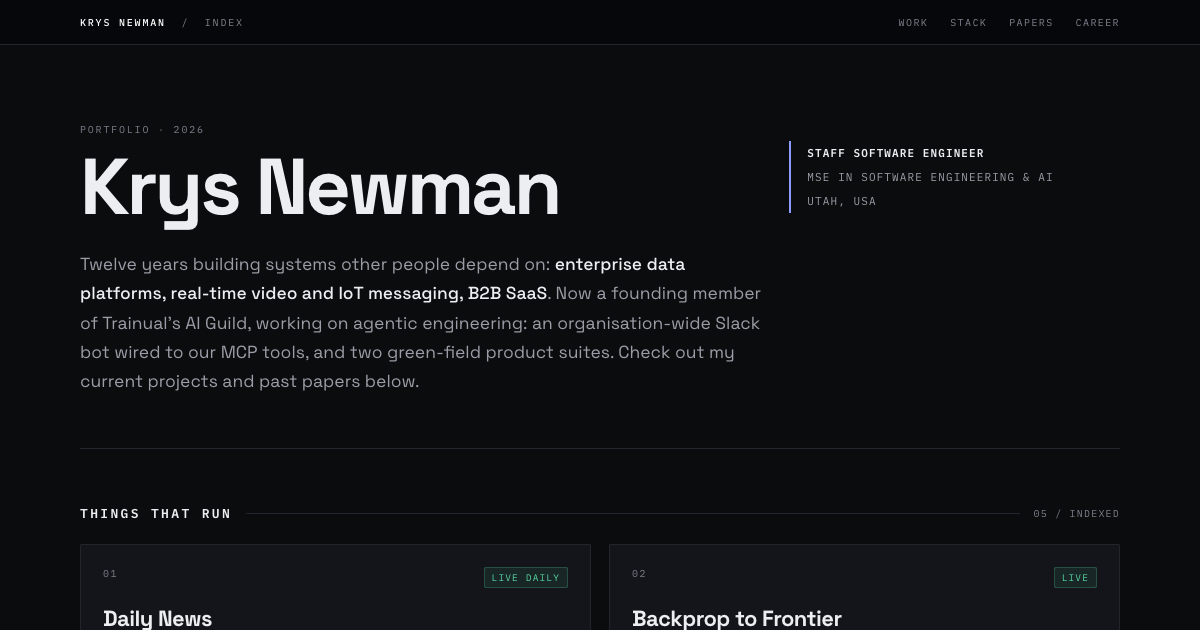
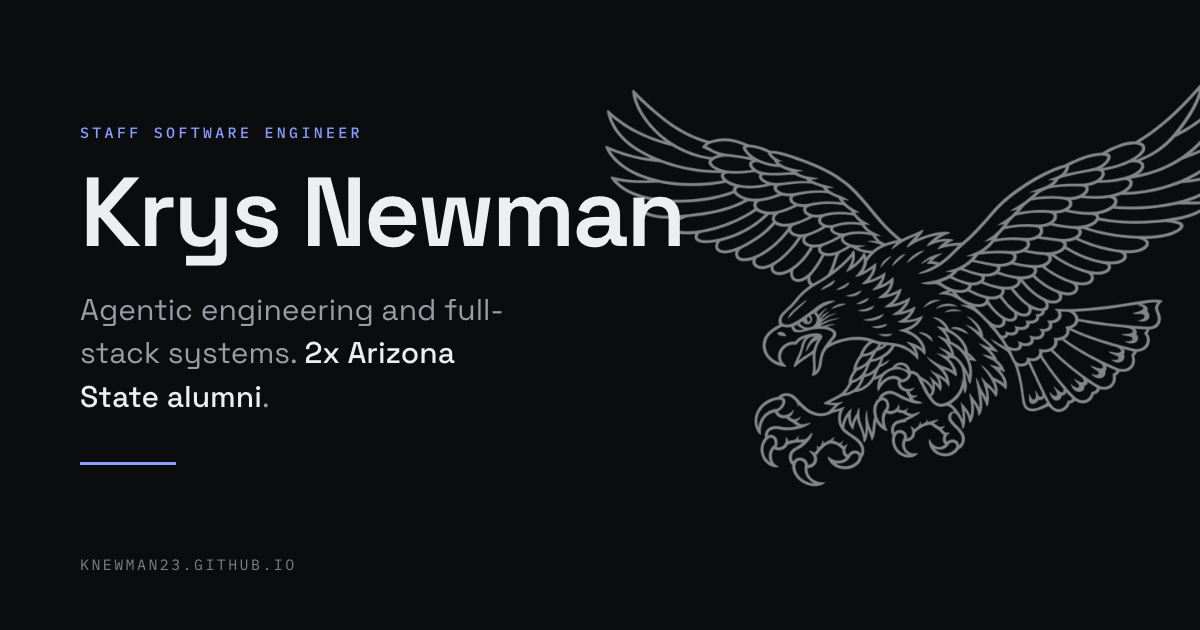
Use the shared eagle card for the link preview
The preview was a screenshot of the page header. It is now the same card
the other three sites use: crest, kicker, wordmark, tagline, accent rule,
URL, drawn from one template so the four cannot drift apart.

Only the preview image changes. Nothing the site renders is touched.

Regenerate by opening the card source at 1200x630 and capturing the
viewport.

Claude-Session: https://claude.ai/code/session_01MYnHWNSzMAFiRNwxXqYAmC

diff --git a/og/card.html b/og/card.html
@@ -1,0 +1,114 @@
+<!DOCTYPE html>
+<html lang="en">
+<head>
+<meta charset="utf-8">
+<title>Krys Newman, link preview card</title>
+<!--
+  The source for og.png, not a page this site serves.
+
+  It exists because the obvious alternative, screenshotting the real page,
+  bakes whatever happened to be on screen that day into an image that then
+  never changes. This is drawn from the same tokens, the same two fonts and
+  the same crest as the rest of the family, so it stays on brand without
+  going stale.
+
+  To regenerate:  open at exactly 1200x630 and capture the viewport.
+-->
+<style>
+  @font-face {
+    font-family: "Space Grotesk";
+    src: url("../fonts/space-grotesk-var.woff2") format("woff2-variations");
+    font-weight: 300 700; font-style: normal;
+  }
+  @font-face { font-family:"IBM Plex Mono"; src:url("../fonts/plex-mono-400.woff2") format("woff2"); font-weight:400; }
+  @font-face { font-family:"IBM Plex Mono"; src:url("../fonts/plex-mono-500.woff2") format("woff2"); font-weight:500; }
+
+  /* The dark palette, lifted from the shared token set. The card is always
+     dark: a link preview has no viewer theme to follow. */
+  :root {
+    --bg:      #0b0c0e;
+    --ink:     #edeef1;
+    --soft:    #9a9da6;
+    --faint:   #7b7e88;
+    --accent:  #8b9bff;
+    --mono: "IBM Plex Mono", ui-monospace, SFMono-Regular, Menlo, monospace;
+    --sans: "Space Grotesk", system-ui, -apple-system, "Segoe UI", sans-serif;
+  }
+
+  * { box-sizing: border-box; }
+  html, body { margin: 0; padding: 0; }
+  body {
+    width: 1200px; height: 630px; overflow: hidden;
+    background: var(--bg); color: var(--ink);
+    font-family: var(--sans);
+    -webkit-font-smoothing: antialiased;
+  }
+
+  .card {
+    position: relative;
+    width: 1200px; height: 630px;
+    /* The foot is absolutely positioned, so the bottom padding is what
+       keeps the centred block from sliding underneath it. */
+    padding: 88px 80px 130px;
+    display: flex; flex-direction: column; justify-content: center;
+  }
+
+  /* The crest bleeds off the right edge so it reads as a watermark behind
+     the type rather than a second focal point. eagle.png is a black line
+     drawing on transparent, so it has to be inverted to survive on a
+     near-black ground. */
+  .crest {
+    position: absolute; right: -40px; top: 46%;
+    transform: translateY(-50%);
+    width: 640px; height: auto;
+    filter: invert(1);
+    opacity: .5;
+    pointer-events: none;
+  }
+
+  .kicker {
+    position: relative;
+    font-family: var(--mono); font-size: 15px; font-weight: 500;
+    letter-spacing: .22em; text-transform: uppercase;
+    color: var(--accent); margin: 0 0 26px;
+  }
+
+  h1 {
+    position: relative;
+    font-size: 98px; line-height: .92; font-weight: 600;
+    letter-spacing: -.03em; margin: 0 0 30px;
+    max-width: 640px;
+  }
+
+  .tagline {
+    position: relative;
+    font-size: 30px; line-height: 1.45; font-weight: 400;
+    color: var(--soft); margin: 0; max-width: 24ch;
+  }
+  .tagline b { color: var(--ink); font-weight: 500; }
+
+  .rule {
+    position: relative;
+    width: 96px; height: 3px; background: var(--accent);
+    margin: 44px 0 0;
+  }
+
+  .foot {
+    position: absolute; left: 80px; bottom: 56px;
+    font-family: var(--mono); font-size: 15px;
+    letter-spacing: .16em; text-transform: uppercase;
+    color: var(--faint); margin: 0;
+  }
+</style>
+</head>
+<body>
+  <div class="card">
+    <img class="crest" src="eagle.png" alt="">
+    <p class="kicker">Staff Software Engineer</p>
+    <h1>Krys Newman</h1>
+    <p class="tagline">Agentic engineering and full-stack systems. <b>2x Arizona State alumni</b>.</p>
+    <div class="rule"></div>
+    <p class="foot">knewman23.github.io</p>
+  </div>
+</body>
+</html>
